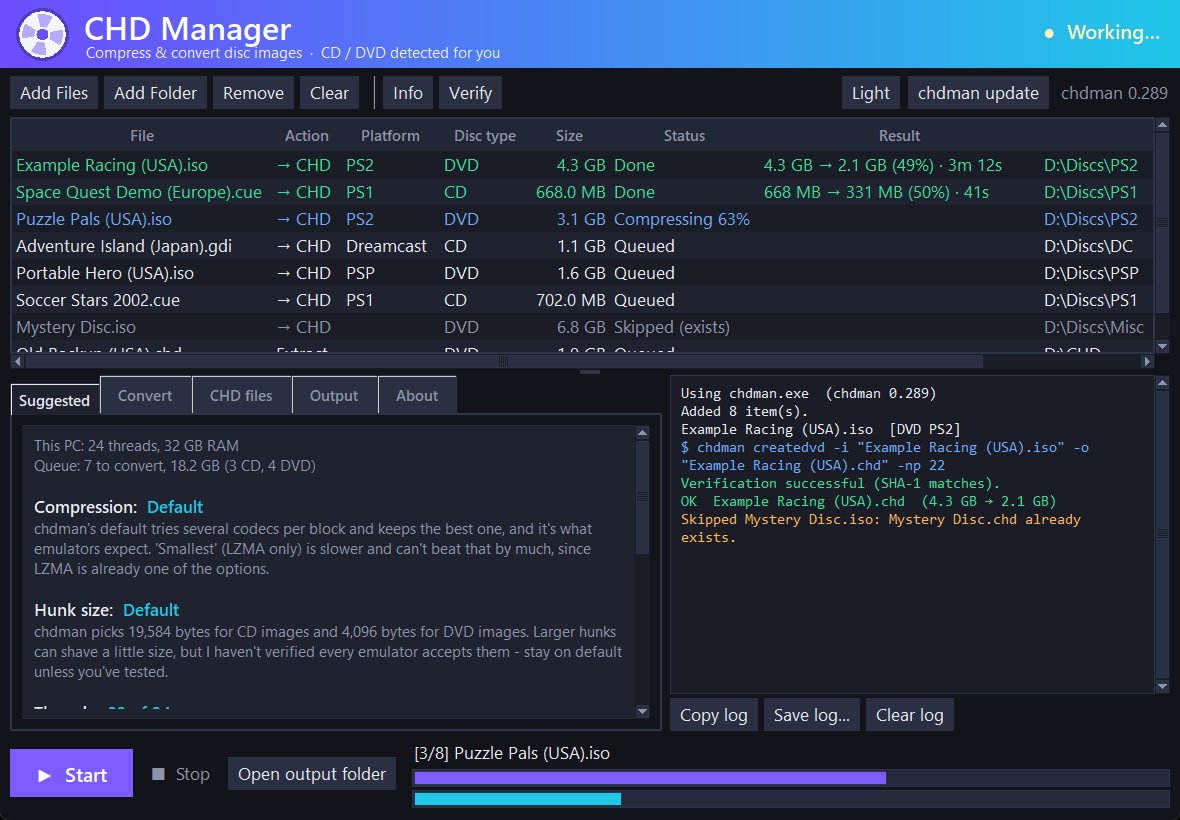
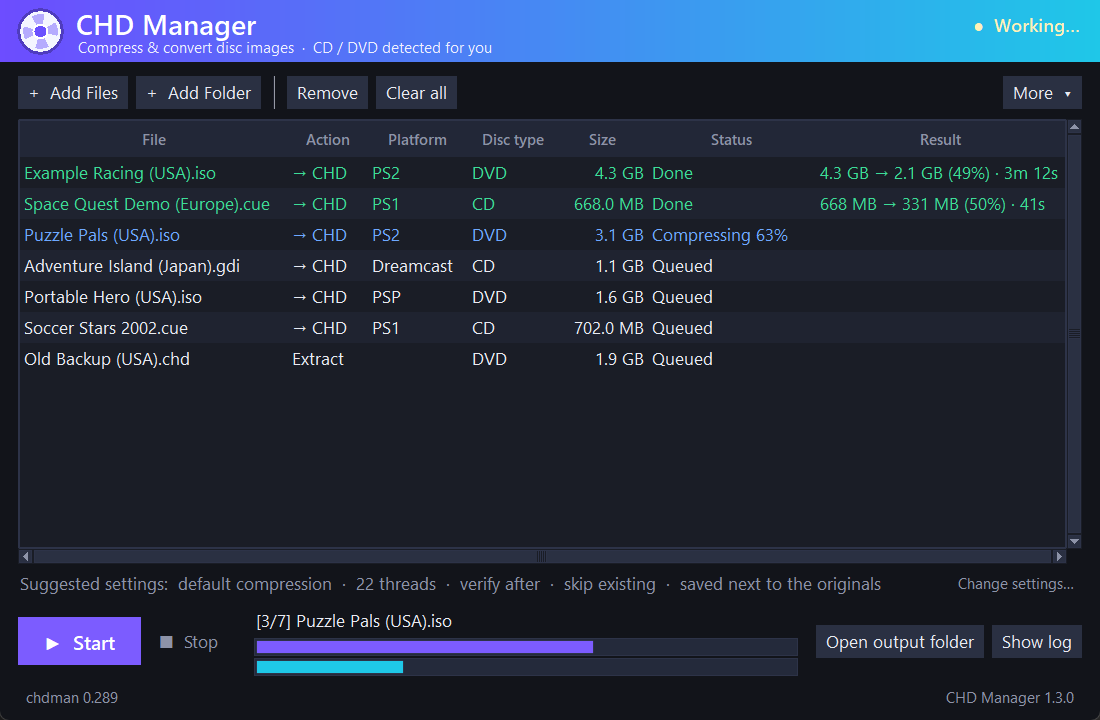
1.3.0: a calmer, simpler main window
One list of discs, one settings line, one Start button. The five tabs moved into a settings window (More menu or Change settings), the log is hidden until asked for (and opens by itself on a failure), the less common actions moved into a More menu, the table no longer shows the Folder column, the header is slimmer, and spacing is roomier. The chdman and CHD Manager versions at the bottom are now the update buttons: click to check, and they turn orange when an update is waiting. No conversion behavior changed.

Changed region(s): [[0.0, 0.0, 1.0, 1.0], [0.4327, 0.4889, 0.4636, 0.5194]]

diff --git a/README.md b/README.md
@@ -14,9 +14,11 @@ CHD Manager is a front end for `chdman`, the tool from the [MAME](https://github
 </details>
 
 <details>
-<summary>About tab</summary>
+<summary>Settings window, About page</summary>
 
-![CHD Manager, About tab](docs/screenshot-about.png)
+![CHD Manager, settings window on the About page](docs/screenshot-about.png)
+
+![CHD Manager, settings window on the Convert page](docs/screenshot-settings.png)
 
 </details>
 
@@ -30,15 +32,15 @@ CHD Manager is a front end for `chdman`, the tool from the [MAME](https://github
 - **Safety.** Optional verify after creating each CHD. Optional "send sources to the Recycle Bin", and only after the new CHD passed verification, so your source files are never permanently deleted.
 - **Options.** Compression presets or custom codecs, hunk size, threads, skip/overwrite/rename existing files, output folder (with folder structure kept), per-track `.bin` extraction.
 - **Progress and log** for every job, an Info window, a summary of the space you saved, and a dark and a light theme.
-- **Updates.** One click checks MAME's latest chdman and, if you confirm, installs it (checksum-verified, with a backup of the old one). CHD Manager can also update itself from this repo's releases: it checks the SHA-256, test-runs the new version, then swaps it in and restarts. The prompt offers **Update now**, **Remind me next time**, or **Skip this version**, and a small badge stays in the window's header either way.
-- **An About tab** with the version, links, license info, the CHD Manager update controls, and a *Copy diagnostics* button for bug reports (it leaves out your folder paths and user name).
-- **A window that scales.** It opens wide enough that nothing is squeezed and spreads its table, options and log sensibly when you resize.
+- **Updates.** The two version buttons at the bottom of the window (chdman on the left, CHD Manager on the right) are also the update buttons: click one to check, and it turns orange when an update is waiting. One click checks MAME's latest chdman and, if you confirm, installs it (checksum-verified, with a backup of the old one). CHD Manager can also update itself from this repo's releases: it checks the SHA-256, test-runs the new version, then swaps it in and restarts. The prompt offers **Update now**, **Remind me next time**, or **Skip this version**, and a small badge stays in the window's header either way.
+- **A settings window** (More menu, or *Change settings…*) with the conversion options, output folder, the suggested-settings explanation, and an About page with the version, links, license info, the CHD Manager update controls, and a *Copy diagnostics* button for bug reports (it leaves out your folder paths and user name).
+- **A calm layout.** One list of discs, one line saying which settings will be used, and one Start button. The settings window, the log and the less common actions (verify, info, theme, updates) stay out of the way until you want them, and the log opens by itself if something fails. The window also scales sensibly when you resize it.
 
 ## Download and use
 
 1. Get the zip from the [Releases](../../releases) page and unzip it anywhere.
 2. Run **CHD Manager.exe**.
-3. Click **Add Files** or **Add Folder**, check the **Suggested** tab, press **Start**.
+3. Click **Add Files** or **Add Folder** (or drag them in), glance at the settings line under the list, and press **Start**.
 
 Windows 10/11, 64-bit. Python is not needed. Settings are saved in `chd_manager_settings.json` next to the exe.
 
@@ -59,7 +61,7 @@ Many PS2 CHDs you find online are CD-type (made with `createcd`), even for big D
 
 ## Network use
 
-CHD Manager is offline except for the update checks. Each has its own on/off switch (chdman in the **Output** tab, CHD Manager in the **About** tab):
+CHD Manager is offline except for the update checks. Each has its own on/off switch (chdman in the settings window's **Output** page, CHD Manager on its **About** page):
 
 - At startup it asks GitHub for the number of the latest MAME release, and for the latest CHD Manager release. It never downloads anything by itself.
 - When you confirm a CHD Manager update, it downloads the release zip from this repo (`github.com/Mr-Shizzy/CHD-Manager`), verifies its SHA-256, and only then replaces itself. If you're running the script instead of the exe, it just offers to open the download page.
